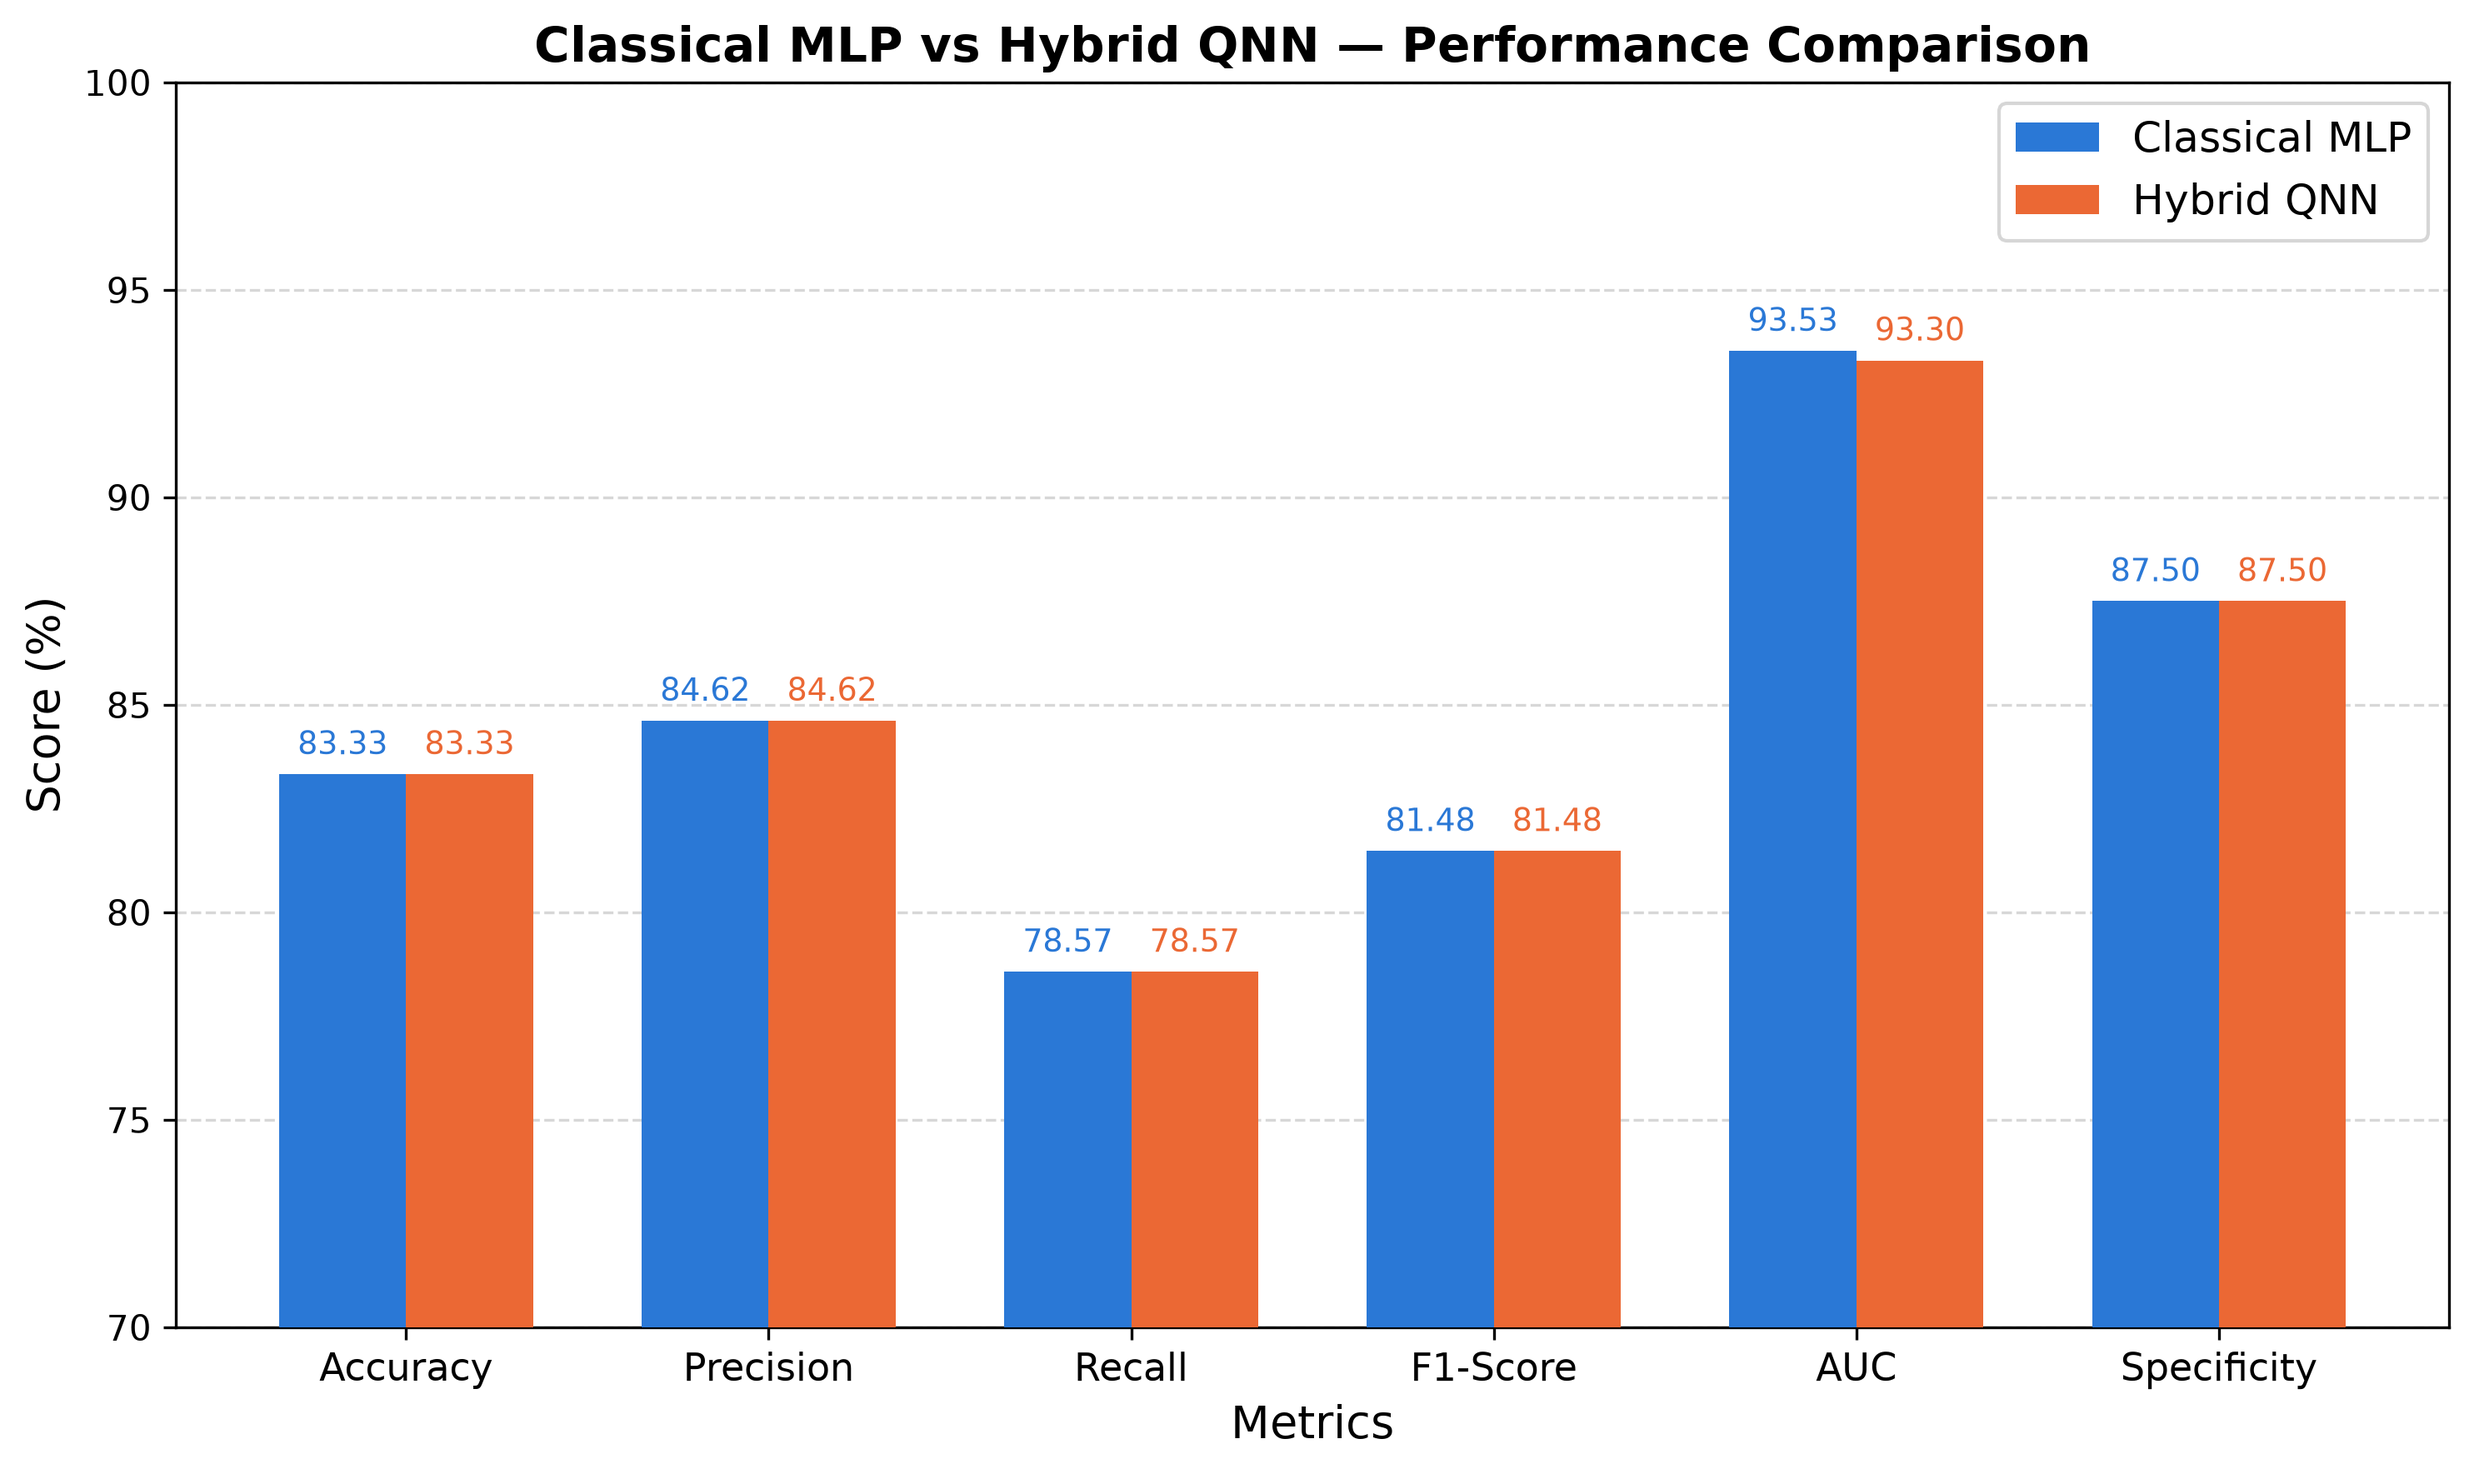
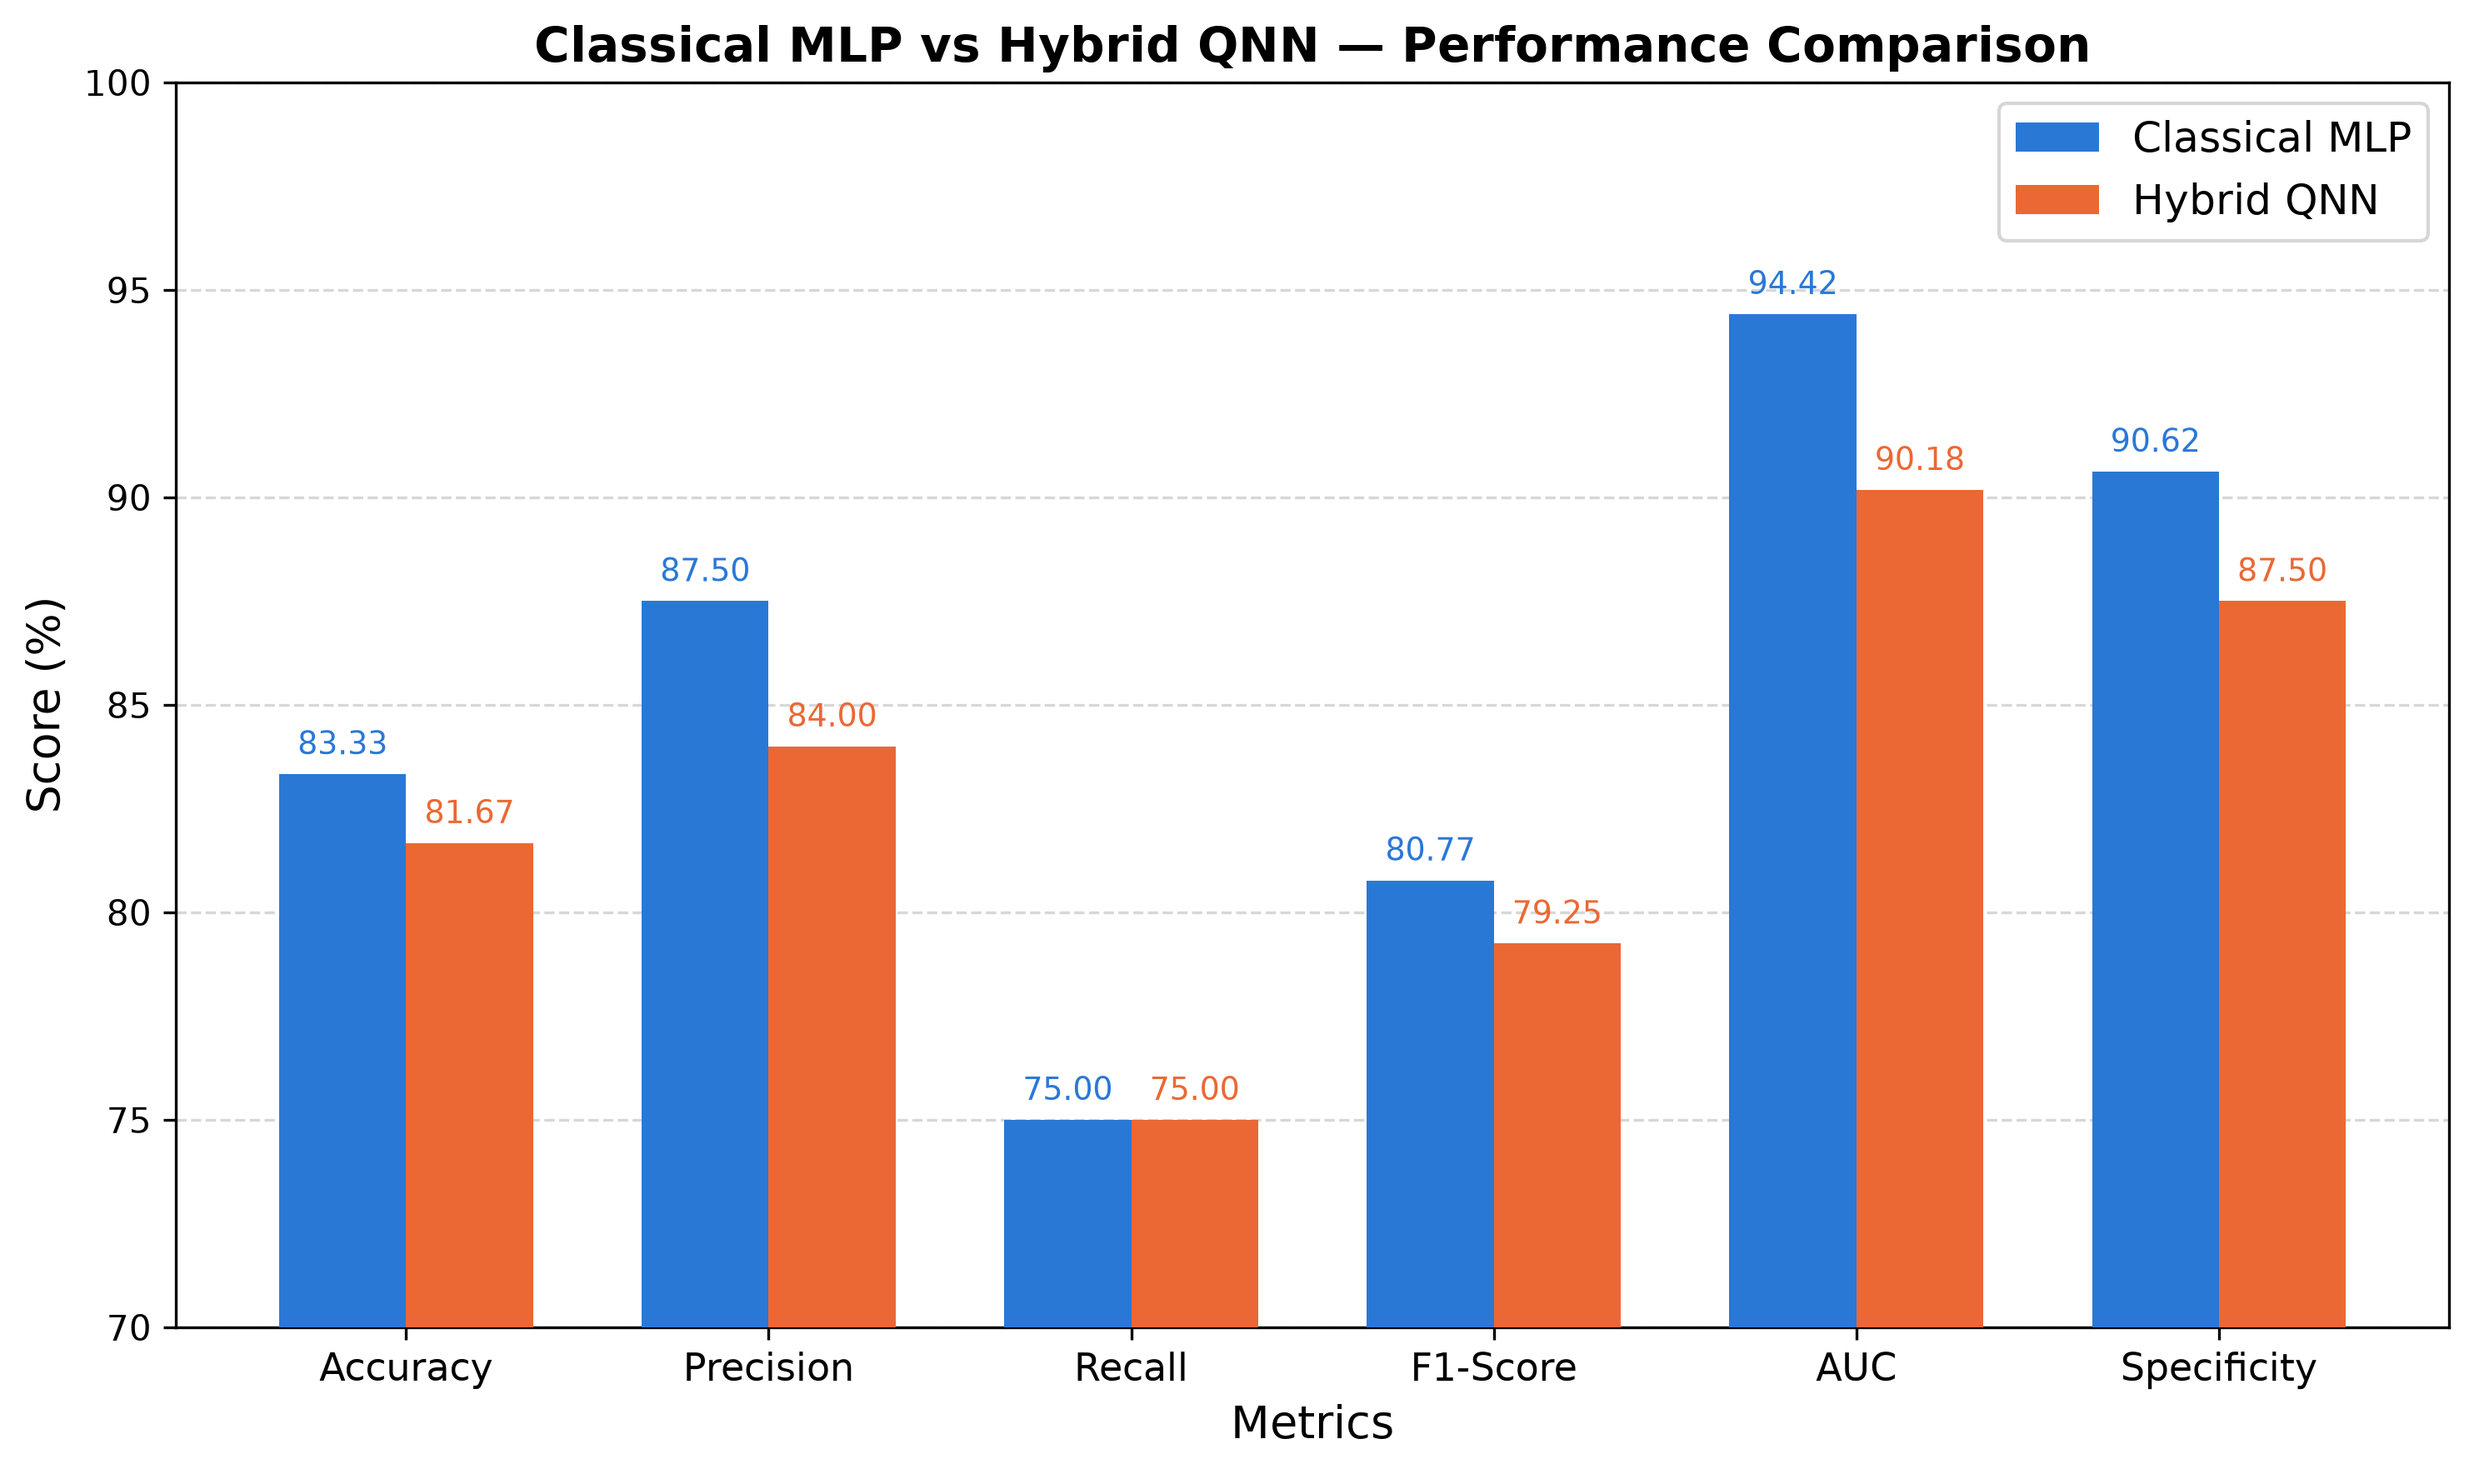
generalization

diff --git a/main.py b/main.py
@@ -1,10 +1,20 @@
-import torch
+import torch,json
 import numpy as np
+import os
+import matplotlib
+matplotlib.use('Agg')
+import matplotlib.pyplot as plt
 from utils.preprocess import load_heart_data, preprocess
 from models.classical_mlp import ClassicalMLP, train_mlp
 from models.hybrid_qnn import HybridQNN, train_qnn
 from explainability.shap_analysis import explain_mlp, explain_qnn
 from experiments.compare_models import run_comparison
+
+import torch, numpy as np, random
+seed = 42
+torch.manual_seed(seed)
+np.random.seed(seed)
+random.seed(seed)
 
 FEATURE_NAMES = ['age','sex','cp','trestbps','chol','fbs','restecg',
                  'thalach','exang','oldpeak','slope','ca','thal']
@@ -16,11 +26,25 @@ if __name__ == "__main__":
 
     print("\nStep 2: Training Classical MLP Baseline...")
     mlp = ClassicalMLP(input_dim=13)
-    mlp = train_mlp(mlp, X_train, y_train, epochs=100)
+    mlp, mlp_losses = train_mlp(mlp, X_train, y_train, epochs=100)
 
     print("\nStep 3: Training Hybrid Quantum Neural Network...")
     qnn = HybridQNN(input_dim=13)
-    qnn = train_qnn(qnn, X_train, y_train, epochs=100)
+    qnn, qnn_losses = train_qnn(qnn, X_train, y_train, epochs=100)
+
+    print("\nStep 3b: Saving Loss Curve...")
+    os.makedirs('results/plots', exist_ok=True)
+    plt.figure(figsize=(7, 5))
+    plt.plot(mlp_losses, label='Classical MLP', linewidth=2)
+    plt.plot(qnn_losses, label='Hybrid QNN', linewidth=2)
+    plt.xlabel('Epoch')
+    plt.ylabel('Binary Cross-Entropy Loss')
+    plt.title('Training Loss Convergence')
+    plt.legend()
+    plt.grid(alpha=0.3)
+    plt.savefig('results/plots/loss_curve.png', dpi=300, bbox_inches='tight')
+    plt.close()
+    print("Saved results/plots/loss_curve.png")
 
     print("\nStep 4: Generating SHAP Explanations...")
     explain_mlp(mlp, X_train, X_test, FEATURE_NAMES)
@@ -29,4 +53,38 @@ if __name__ == "__main__":
     print("\nStep 5: Metric Logging and Final Comparison...")
     run_comparison(mlp, qnn, X_test, y_test)
 
+    print("\nStep 6: Generating Metrics Bar Chart...")
+    with open('results/metrics.json') as f:
+        results = json.load(f)
+    metric_labels = ['Accuracy', 'Precision', 'Recall', 'F1-Score', 'AUC', 'Specificity']
+    keys = ['accuracy', 'precision', 'recall', 'f1', 'auc', 'specificity']
+    mlp_scores = [results['classical_mlp'][k] * 100 for k in keys]
+    qnn_scores = [results['hybrid_qnn'][k] * 100 for k in keys]
+
+    x = np.arange(len(metric_labels))
+    width = 0.35
+    fig, ax = plt.subplots(figsize=(10, 6))
+    bars1 = ax.bar(x - width/2, mlp_scores, width, label='Classical MLP', color='#2a78d6', zorder=3)
+    bars2 = ax.bar(x + width/2, qnn_scores, width, label='Hybrid QNN', color='#eb6834', zorder=3)
+    for bar in bars1:
+        ax.text(bar.get_x() + bar.get_width()/2, bar.get_height() + 0.3,
+                f'{bar.get_height():.2f}', ha='center', va='bottom', fontsize=9, color='#2a78d6')
+    for bar in bars2:
+        ax.text(bar.get_x() + bar.get_width()/2, bar.get_height() + 0.3,
+                f'{bar.get_height():.2f}', ha='center', va='bottom', fontsize=9, color='#eb6834')
+    ax.set_xlabel('Metrics', fontsize=13)
+    ax.set_ylabel('Score (%)', fontsize=13)
+    ax.set_title('Classical MLP vs Hybrid QNN — Performance Comparison', fontsize=14, fontweight='bold')
+    ax.set_xticks(x)
+    ax.set_xticklabels(metric_labels, fontsize=11)
+    ax.set_ylim(70, 100)
+    ax.legend(fontsize=12)
+    ax.grid(axis='y', linestyle='--', alpha=0.5, zorder=0)
+    plt.tight_layout()
+    plt.savefig('results/plots/metrics_comparison.png', dpi=300, bbox_inches='tight')
+    plt.close()
+    print("Saved metrics_comparison.png")
+
     print("\nEverything completed successfully. Check results/metrics.json and results/plots/")
+
+    

diff --git a/experiments/compare_models.py b/experiments/compare_models.py
@@ -3,6 +3,10 @@ import numpy as np
 import json
 import os
 from utils.metrics import evaluate, print_metrics
+import matplotlib
+matplotlib.use('Agg')
+import matplotlib.pyplot as plt
+from sklearn.metrics import confusion_matrix, ConfusionMatrixDisplay, roc_curve, auc
 
 def run_comparison(mlp_model, qnn_model, X_test, y_test):
     mlp_model.eval()
@@ -35,3 +39,30 @@ def run_comparison(mlp_model, qnn_model, X_test, y_test):
         json.dump(results, f, indent=2)
         
     print("\nResults saved to results/metrics.json")
+    # --- Confusion matrices ---
+    os.makedirs('results/plots', exist_ok=True)
+    fig, axes = plt.subplots(1, 2, figsize=(10, 4))
+    for ax, preds, title in [(axes[0], mlp_preds, 'Classical MLP'),
+                              (axes[1], qnn_preds, 'Hybrid QNN')]:
+        cm = confusion_matrix(y_test, preds)
+        ConfusionMatrixDisplay(cm, display_labels=['No Disease', 'Disease']).plot(ax=ax, colorbar=False)
+        ax.set_title(title)
+    plt.tight_layout()
+    plt.savefig('results/plots/confusion_matrix.png', dpi=300, bbox_inches='tight')
+    plt.close(fig)
+
+    # --- ROC curve ---
+    fig, ax = plt.subplots(figsize=(6, 6))
+    for probs, name in [(mlp_probs, 'Classical MLP'), (qnn_probs, 'Hybrid QNN')]:
+        fpr, tpr, _ = roc_curve(y_test, probs)
+        ax.plot(fpr, tpr, label=f'{name} (AUC={auc(fpr, tpr):.4f})')
+    ax.plot([0, 1], [0, 1], 'k--', alpha=0.4)
+    ax.set_xlabel('False Positive Rate')
+    ax.set_ylabel('True Positive Rate')
+    ax.set_title('ROC Curve — Classical MLP vs Hybrid QNN')
+    ax.legend()
+    ax.grid(alpha=0.3)
+    plt.savefig('results/plots/roc_curve.png', dpi=300, bbox_inches='tight')
+    plt.close(fig)
+
+    print("Saved confusion_matrix.png and roc_curve.png to results/plots/")

diff --git a/plot_metrics.py b/plot_metrics.py
@@ -5,9 +5,14 @@ import numpy as np
 import os
 
 metrics = ['Accuracy', 'Precision', 'Recall', 'F1-Score', 'AUC', 'Specificity']
-mlp_scores = [83.33, 84.62, 78.57, 81.48, 93.53, 87.50]
-qnn_scores  = [83.33, 84.62, 78.57, 81.48, 93.30, 87.50]
+import json
+with open('results/metrics.json') as f:
+    results = json.load(f)
 
+# Check your utils/metrics.py to confirm these exact key names
+metrics = ['Accuracy', 'Precision', 'Recall', 'F1-Score', 'AUC', 'Specificity']
+mlp_scores = [results['classical_mlp'][k]*100 for k in ['accuracy','precision','recall','f1','auc','specificity']]
+qnn_scores = [results['hybrid_qnn'][k]*100 for k in ['accuracy','precision','recall','f1','auc','specificity']]
 x = np.arange(len(metrics))
 width = 0.35
 
@@ -36,3 +41,4 @@ os.makedirs('results/plots', exist_ok=True)
 plt.tight_layout()
 plt.savefig('results/plots/metrics_comparison.png', dpi=300, bbox_inches='tight')
 print("Saved to results/plots/metrics_comparison.png")
+

diff --git a/models/classical_mlp.py b/models/classical_mlp.py
@@ -25,6 +25,7 @@ def train_mlp(model, X_train, y_train, epochs=100, lr=0.001):
     X = torch.tensor(X_train, dtype=torch.float32)
     y = torch.tensor(y_train, dtype=torch.float32).view(-1, 1)
     
+    losses = []
     model.train()
     for epoch in range(epochs):
         optimizer.zero_grad()
@@ -32,8 +33,9 @@ def train_mlp(model, X_train, y_train, epochs=100, lr=0.001):
         loss = criterion(out, y)
         loss.backward()
         optimizer.step()
+        losses.append(loss.item())
         
         if (epoch + 1) % 20 == 0:
             print(f"Epoch {epoch+1}/{epochs} | Loss: {loss.item():.4f}")
             
-    return model
+    return model, losses

diff --git a/models/hybrid_qnn.py b/models/hybrid_qnn.py
@@ -57,6 +57,7 @@ def train_qnn(model, X_train, y_train, epochs=100, lr=0.01):
     X = torch.tensor(X_train, dtype=torch.float32)
     y = torch.tensor(y_train, dtype=torch.float32).view(-1, 1)
     
+    losses = []
     model.train()
     for epoch in range(epochs):
         optimizer.zero_grad()
@@ -64,8 +65,9 @@ def train_qnn(model, X_train, y_train, epochs=100, lr=0.01):
         loss = criterion(out, y)
         loss.backward()
         optimizer.step()
+        losses.append(loss.item())
         
         if (epoch + 1) % 20 == 0:
             print(f"Epoch {epoch+1}/{epochs} | Loss: {loss.item():.4f}")
             
-    return model 
+    return model, losses

diff --git a/m.py b/m.py
@@ -1,0 +1,8 @@
+def firstDuplicate(Nums){
+    seen = set
+    for num in Nums{
+        if num in set {return num}
+        seen.add(nums)
+    }
+
+}
